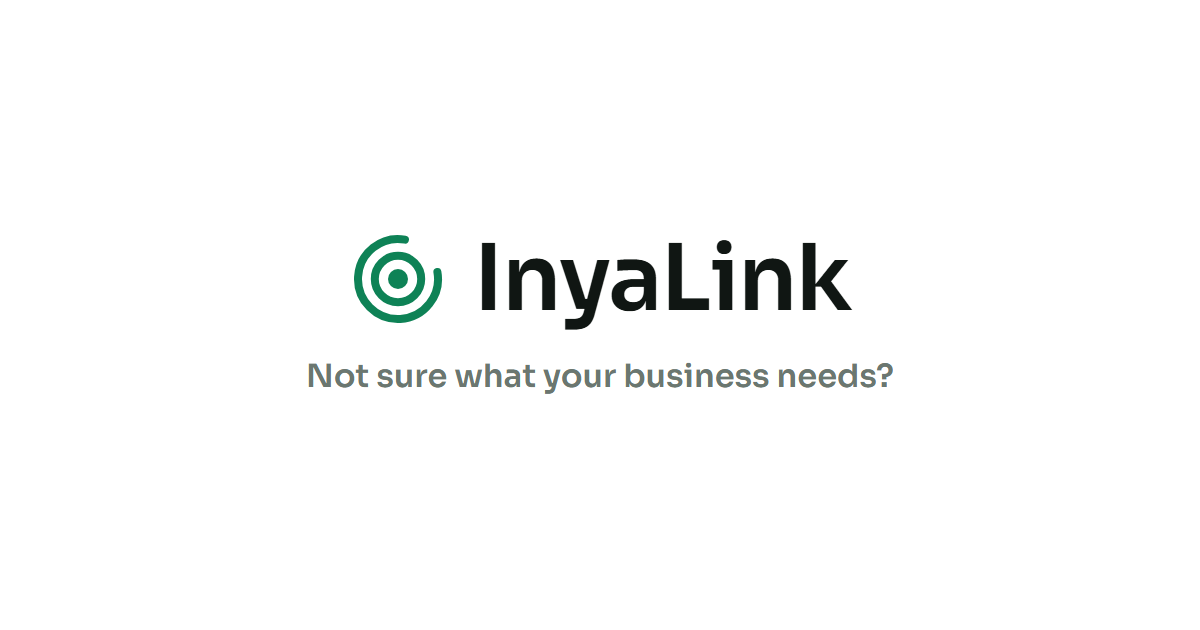
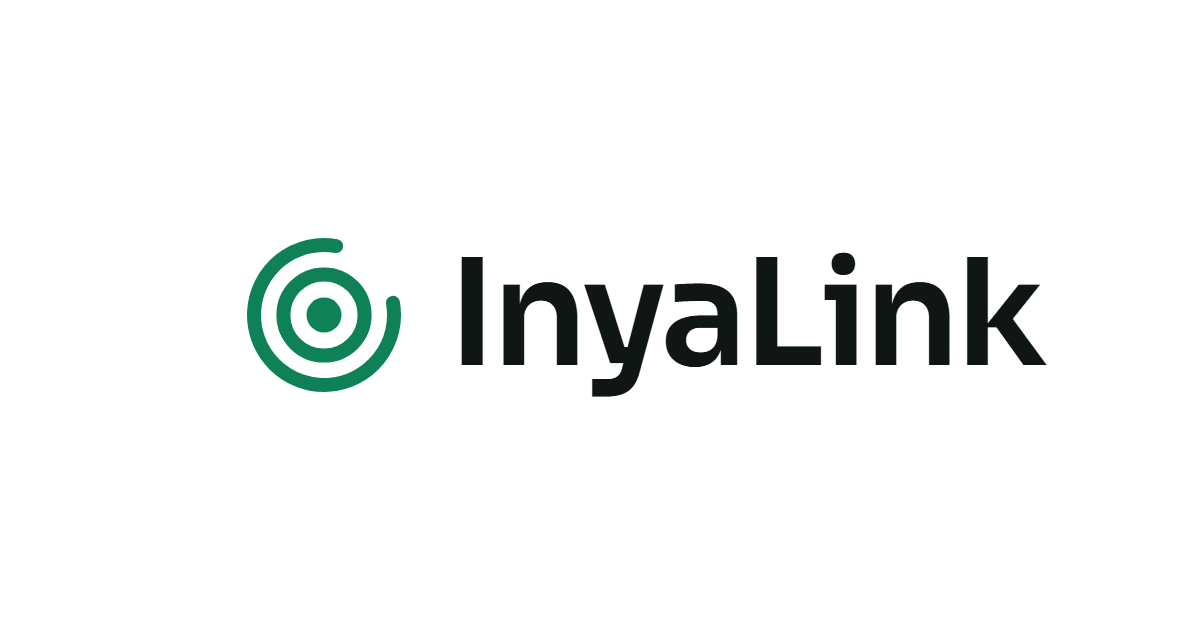
Enlarge OG lockup and drop the redundant tagline from the image.

Changed region(s): [[0.185, 0.3619, 0.8633, 0.6333]]

diff --git a/apps/web/index.html b/apps/web/index.html
@@ -21,7 +21,7 @@
       property="og:description"
       content="That's what we're here for. Describe it — we'll find who can help."
     />
-    <meta property="og:image" content="https://inyalink.com/og.png?v=3" />
+    <meta property="og:image" content="https://inyalink.com/og.png?v=4" />
     <meta property="og:image:width" content="1200" />
     <meta property="og:image:height" content="630" />
     <meta name="twitter:card" content="summary_large_image" />
@@ -33,7 +33,7 @@
       name="twitter:description"
       content="That's what we're here for. Describe it — we'll find who can help."
     />
-    <meta name="twitter:image" content="https://inyalink.com/og.png?v=3" />
+    <meta name="twitter:image" content="https://inyalink.com/og.png?v=4" />
     <link rel="preconnect" href="https://fonts.googleapis.com" />
     <link rel="preconnect" href="https://fonts.gstatic.com" crossorigin />
     <link
